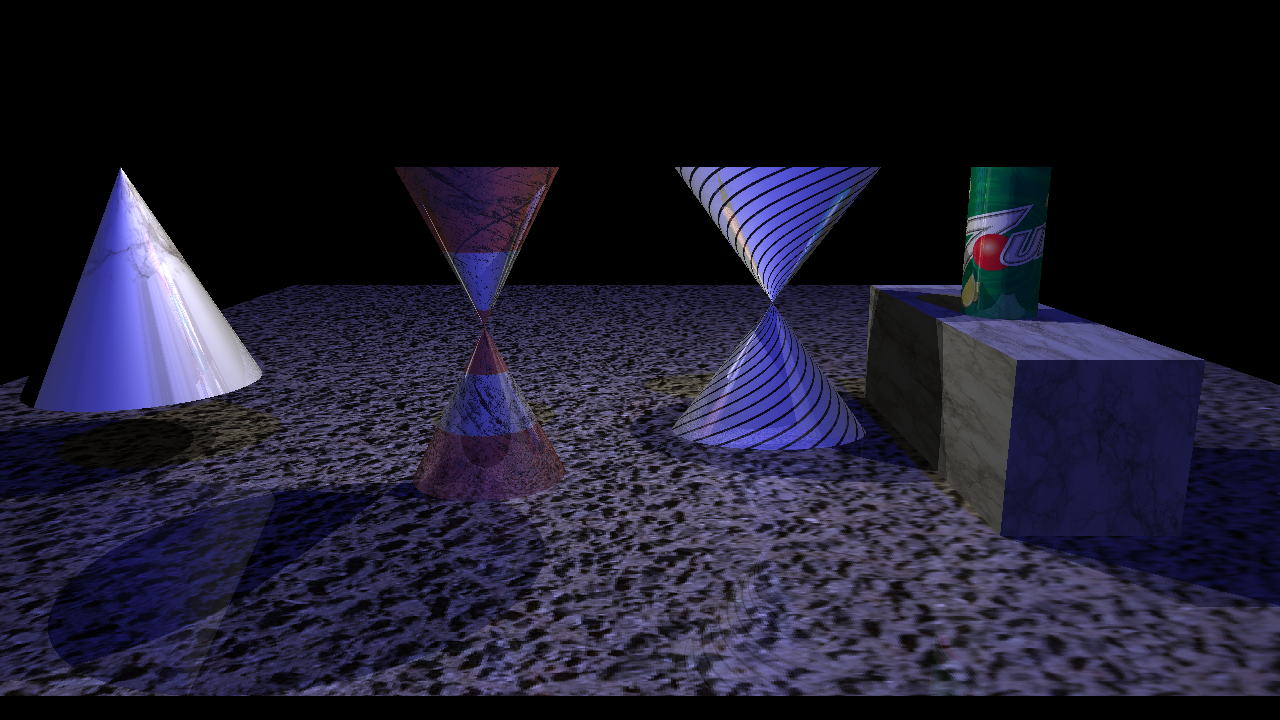
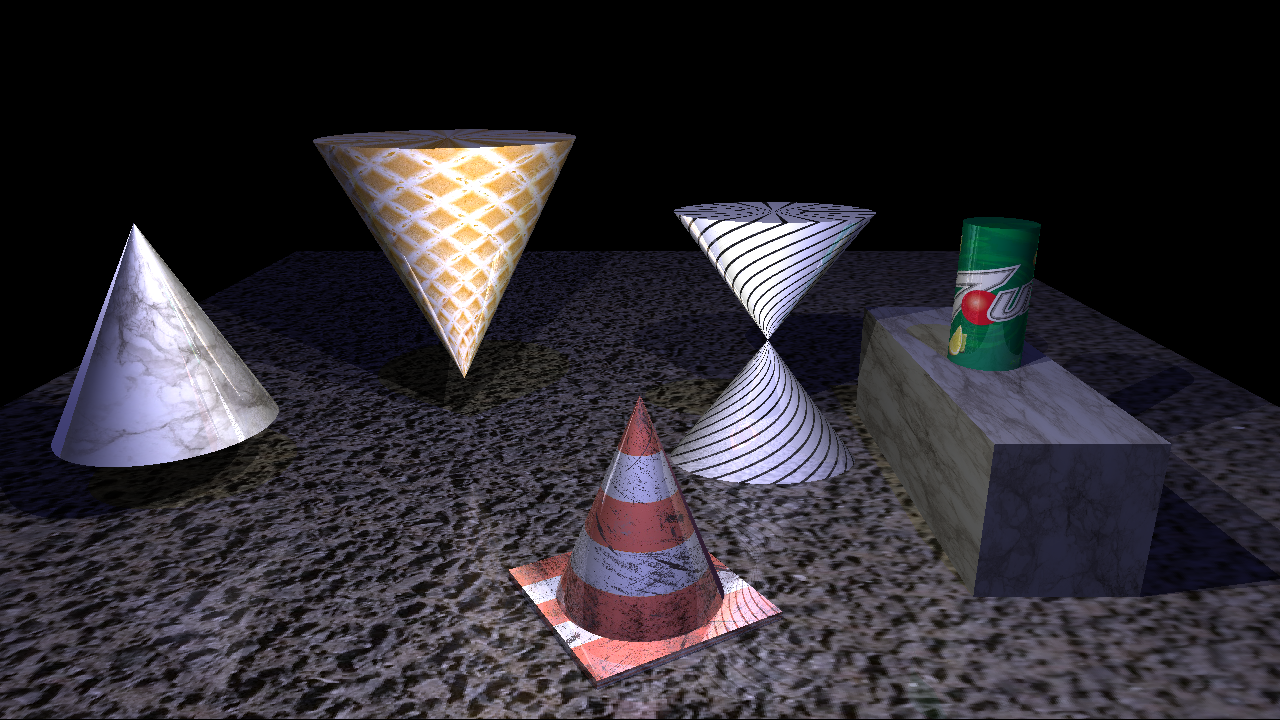
Version 2.0 - fixed bugs in cylinder and cone

diff --git a/src/Cylinder.cpp b/src/Cylinder.cpp
@@ -23,7 +23,8 @@ bool Cylinder::intersectsRay(Ray &r, GLfloat &dist, vec3* point, vec3* normal, O
 	Ray tr = this->invTransform() * r; // Transformed ray
 	GLfloat A, B, C;
 	GLfloat discriminant, disc_root;
-	GLfloat t1 = INFINITY, t2 = INFINITY, t3 = INFINITY, t4 = INFINITY, t = INFINITY;
+	GLfloat t_min, t_max;
+	GLfloat t1 = INFINITY, t2 = INFINITY, t3 = INFINITY, t4 = INFINITY;
 	vec3    ip, ip2; // Intersection points
 
 	bool single_intersection = false;
@@ -43,11 +44,10 @@ bool Cylinder::intersectsRay(Ray &r, GLfloat &dist, vec3* point, vec3* normal, O
 	disc_root = glm::sqrt(discriminant);
 	t1 = (-B + disc_root) / (2*A);
 	t2 = (-B - disc_root) / (2*A);
-
 	if (abs(t1 - t2) < EPSILON) {
 		// same solution
 		single_intersection = true;
-		t = t1;
+		t_min = t1;
 	}
 	else if (t1 > EPSILON && t2 > EPSILON) {
 		// Both positive
@@ -57,10 +57,10 @@ bool Cylinder::intersectsRay(Ray &r, GLfloat &dist, vec3* point, vec3* normal, O
 		// One positive, one negative
 		// or 2 negatives
 		single_intersection = true;
-		t = glm::max(t1, t2);
+		t_min = glm::max(t1, t2);
 	}
 
-	if (t < 0) {
+	if (t_min < 0) {
 		// If dist is a negative values (accounting for floating point errors)
 		// then both solutions were negative. Meaning we have to go back from the origin of
 		// the ray (against its direction) to the intersection point - which means of course that
@@ -70,15 +70,14 @@ bool Cylinder::intersectsRay(Ray &r, GLfloat &dist, vec3* point, vec3* normal, O
 
 	if (single_intersection) {
 
-		ip = tr.origin + t * tr.direction;
+		ip = tr.origin + t_min * tr.direction;
 		if (ip.y > maxCap || ip.y < minCap){
 			return false;
 		}
-
 	}
+
 	else { // 2 intersections
 
-		GLfloat t_min, t_max;
 		t_min = glm::min(t1,t2);
 		t_max = glm::max(t1,t2);
 
@@ -88,7 +87,6 @@ bool Cylinder::intersectsRay(Ray &r, GLfloat &dist, vec3* point, vec3* normal, O
 		if ((ip.y > maxCap && ip2.y > maxCap) || (ip.y < minCap && ip2.y < minCap) ){ // both intersection are on infinite cylinder (behind min or beyond max caps)
 			return false;
 		}
-
 		if ((ip.y < minCap && ip2.y > minCap) || (ip.y > minCap && ip2.y < minCap)) { // min cap intersection
 			t3 = (minCap - tr.origin.y) / tr.direction.y;
 		}
@@ -96,35 +94,24 @@ bool Cylinder::intersectsRay(Ray &r, GLfloat &dist, vec3* point, vec3* normal, O
 		if ((ip.y < maxCap && ip2.z > maxCap) || (ip.y > maxCap && ip2.y < maxCap)) { // max cap intersection
 			t4 = (maxCap - tr.origin.y) / tr.direction.y;
 		}
-		GLfloat old_t_min = t_min;
 		t_min = glm::min(t_min, glm::min(t3,t4));
+
+		/* This is so we can properly display the object at the caps, as the minimum no longer applies here */
 		if (ip.y < minCap) {
 			t_min = t3;
 			minCapIntersection = true;
 		}
-		if (ip.y > maxCap) {
-			t_min = old_t_min;
+		else if (ip.y > maxCap) {
+			t_min = t4;
 			maxCapIntersection = true;
 		}
+		// TODO - fix issue when rendering cylinder parallel to the camera view
 		ip  = tr.origin + t_min * tr.direction;
 	}
 
 
 	// This is the normal at intersection point. (The Cylinder is aligned with the y-axis)
-	vec3 n;
-	if (minCapIntersection) {
-
-		n = vec3 (0, -1, 0);
-
-
-	} else if (maxCapIntersection) {
-
-		n = vec3 (0, 1, 0);
-	}
-	else {
-		n = vec3(ip - vec3(0,ip.y, 0));
-	}
-
+	vec3 n = _normalAt(ip, minCapIntersection, maxCapIntersection);
 	n = normalize(vec3(mat3(this->invTransposeTrans()) * n));
 
 	// M * p - to transform point back
@@ -143,6 +130,7 @@ bool Cylinder::intersectsRay(Ray &r, GLfloat &dist, vec3* point, vec3* normal, O
 		vec2 uv;
 		uv.x = 0.5 + atan2(ip2.x, ip2.z) / (2*PI); // == (atan2(ip2.x, ip2.z) + PI) / (2*PI);
 		uv.y = (ip2.y - minCap) / (maxCap - minCap); // ==  0.5 + ip2.y / (maxCap - minCap) - because maxCap = -minCap;
+
 		texColors->_ambientTexColor  = this->getAmbientTextureColor(uv);
 		texColors->_diffuseTexColor  = this->getDiffuseTextureColor(uv);
 		texColors->_specularTexColor = this->getSpecularTextureColor(uv);
@@ -152,6 +140,17 @@ bool Cylinder::intersectsRay(Ray &r, GLfloat &dist, vec3* point, vec3* normal, O
 	}
 	return true;
 
+}
+
+
+vec3 Cylinder::_normalAt(const vec3& point, bool minCapIntersect, bool maxCapIntersect)
+{
+	if (minCapIntersect)
+		return vec3 (0, -1, 0);
+	else if (maxCapIntersect)
+		return vec3 (0, 1, 0);
+	else
+		return vec3(point - vec3(0,point.y, 0));
 }
 
 

diff --git a/src/Cone.cpp b/src/Cone.cpp
@@ -25,9 +25,7 @@ bool Cone::intersectsRay(Ray &r, GLfloat &dist, vec3* point, vec3* normal, Objec
 	vec3    ip, ip2; // Intersection points
 
 	bool single_intersection = false;
-
-
-
+	bool minCapIntersection = false, maxCapIntersection = false;
 	GLfloat t_min = INFINITY, t_max = INFINITY;
 
 	A = (tr.direction.x*tr.direction.x) + (tr.direction.z*tr.direction.z) - (tr.direction.y*tr.direction.y);
@@ -69,8 +67,6 @@ bool Cone::intersectsRay(Ray &r, GLfloat &dist, vec3* point, vec3* normal, Objec
 		return false;
 	}
 
-
-
 	if (single_intersection) {
 		ip = tr.origin + t_min * tr.direction;
 		if (ip.y > maxCap || ip.y < minCap){
@@ -80,22 +76,15 @@ bool Cone::intersectsRay(Ray &r, GLfloat &dist, vec3* point, vec3* normal, Objec
 	}
 	else { // 2 intersections
 
-//		GLfloat /*t_min, t_max;
 		t_min = glm::min(t1,t2);
 		t_max = glm::max(t1,t2);
 
 		ip  = tr.origin + t_min * tr.direction;
 		ip2 = tr.origin + t_max * tr.direction;
 
-
-
 		if ((ip.y > maxCap && ip2.y > maxCap) || (ip.y < minCap && ip2.y < minCap) ){ // both intersection are on infinite cone (behind min or beyond max caps)
 			return false;
 		}
-
-//		printf("IP  (%f, %f, %f)\n", ip.x, ip.y, ip.z);
-//		printf("IP2 (%f, %f, %f)\n", ip2.x, ip2.y, ip2.z);
-
 		if ((ip.y < minCap && ip2.y > minCap) || (ip.y > minCap && ip2.y < minCap)) { // min cap intersection
 			t3 = (minCap - tr.origin.y) / tr.direction.y;
 		}
@@ -105,14 +94,21 @@ bool Cone::intersectsRay(Ray &r, GLfloat &dist, vec3* point, vec3* normal, Objec
 		}
 
 		t_min = glm::min(t_min, glm::min(t3,t4));
-//		if (ip.y < minCap) {
-//			t_min = t3;
-//		}
+		/* This is so we can properly display the object at the caps, as the minimum no longer applies here */
+		if (ip.y < minCap) {
+			t_min = t3;
+			minCapIntersection = true;
+		}
+		else if (ip.y > maxCap) {
+			t_min = t4;
+			maxCapIntersection = true;
+		}
+		// TODO - fix issue when rendering cylinder parallel to the camera view
 		ip  = tr.origin + t_min * tr.direction;
 	}
 
 	// This is the normal at intersection point. (The Cone is aligned with the y-axis)
-	vec3 n = _normalAt(ip);
+	vec3 n = _normalAt(ip, minCapIntersection, maxCapIntersection);
 	n = normalize(vec3(mat3(this->invTransposeTrans()) * n));
 
 	// M * p - to transform point back
@@ -133,35 +129,6 @@ bool Cone::intersectsRay(Ray &r, GLfloat &dist, vec3* point, vec3* normal, Objec
 		uv.x = 0.5 + atan2(ip2.x, ip2.z) / (2*PI); // == (atan2(ip2.x, ip2.z) + PI) / (2*PI)
 		uv.y = (ip2.y - minCap) / (height);
 
-		if (uv.y < 0 || uv.y > 1 || uv.x < 0 || uv.x > 1) {
-//			printf("--------------------------\n");
-//			printf("IP: %f\n", ip.y);
-//			printf("IP2: %f\n", ip2.y);
-//			printf("(%f, %f)\n", uv.x, uv.y);
-//			printf("t1: %f\n", t1);
-//			printf("t2: %f\n", t2);
-//			printf("t3: %f\n", t3);
-//			printf("t4: %f\n", t4);
-//			printf("tmin: %f\n", t_min);
-//			printf("tmax: %f\n", t_max);
-//			printf("disc: %f\n", discriminant);
-//			printf("--------------------------\n");
-		}
-		if (ip2.y == minCap) {
-//			printf("*******************\n");
-//			printf("IP: %f\n", ip.y);
-//			printf("IP2: %f\n", ip2.y);
-//			printf("(%f, %f)\n", uv.x, uv.y);
-//			printf("t1: %f\n", t1);
-//			printf("t2: %f\n", t2);
-//			printf("t3: %f\n", t3);
-//			printf("t4: %f\n", t4);
-//			printf("tmin: %f\n", t_min);
-//			printf("tmax: %f\n", t_max);
-//			printf("disc: %f\n", discriminant);
-//			printf("*******************\n");
-		}
-
 		texColors->_ambientTexColor  = this->getAmbientTextureColor(uv);
 		texColors->_diffuseTexColor  = this->getDiffuseTextureColor(uv);
 		texColors->_specularTexColor = this->getSpecularTextureColor(uv);
@@ -176,15 +143,20 @@ bool Cone::intersectsRay(Ray &r, GLfloat &dist, vec3* point, vec3* normal, Objec
 
 
 
-vec3 Cone::_normalAt(const vec3& p)
+vec3 Cone::_normalAt(const vec3& p, bool minCapIntersect, bool maxCapIntersect)
 {
-	vec3 n;
-	vec3 v = normalize(vec3(p.x - 0, 0, p.z-0));
-	n.x = v.x * height / radius;
-	n.y = radius / height;
-	n.z = v.z * height / radius;
-
-	return normalize(n);
+	if (minCapIntersect)
+		return vec3(0, -1, 0);
+	else if (maxCapIntersect)
+		return vec3(0, 1, 0);
+	else {
+		vec3 n;
+		vec3 v = normalize(vec3(p.x - 0, 0, p.z-0));
+		n.x = v.x * height / radius;
+		n.y = radius / height;
+		n.z = v.z * height / radius;
+		return normalize(n);
+	}
 }
 
 

diff --git a/src/Mesh.cpp b/src/Mesh.cpp
@@ -122,6 +122,8 @@ vec3 Mesh::__getTextureColor(Image* texture, vec2& uv)
 		return COLOR_WHITE;
 	}
 
+	uv = glm::clamp(uv, 0.f + EPSILON, 1.f - EPSILON); // Textures at the edges tend to be not accurate
+
 	int w = texture->getWidth();
 	int h = texture->getHeight();
 

diff --git a/src/Object.cpp b/src/Object.cpp
@@ -58,6 +58,8 @@ vec3 Object::getTextureColor(Image *texture, vec2& uv)
 		return COLOR_WHITE;
 	}
 
+	uv = glm::clamp(uv, 0.f + EPSILON, 1.f - EPSILON); // Textures at the edges tend to be not accurate
+
 	int w = texture->getWidth();
 	int h = texture->getHeight();
 

diff --git a/src/main.cpp b/src/main.cpp
@@ -18,7 +18,7 @@
 #define FILES_EXTENSION ".rt"
 #define DEFUALT_RESULT_FORMAT ".png"
 
-#define CURRENT_VERSION "1.9"
+#define CURRENT_VERSION "2.0"
 
 #include <boost/filesystem.hpp>
 #include <boost/program_options.hpp>

diff --git a/src/Cylinder.h b/src/Cylinder.h
@@ -24,6 +24,9 @@ private:
 	GLfloat radius;
 
 
+	vec3 _normalAt(const vec3& point, bool minCapIntersect, bool maxCapIntersect);
+
+
 public:
 
 	Cylinder(const glm::vec3 & center, GLfloat& height, GLfloat &radius)

diff --git a/src/Cone.h b/src/Cone.h
@@ -26,7 +26,7 @@ private:
 	GLfloat radius;
 
 
-	vec3 _normalAt(const vec3& point);
+	vec3 _normalAt(const vec3& point, bool minCapIntersect, bool maxCapIntersect);
 
 
 public:

diff --git a/README.md b/README.md
@@ -296,6 +296,11 @@ The result image can be found in "./Rendered_Scenes/ExampleSphere_result.png
 Version History:
 =================
 
+2.0:
+- Fixed bugs with intersection at caps for cone and cylinder that were calculated wrong.
+- Fixed bug with texture for those primitives, also applied at cone.
+- Fixed a bug with edge values of texture (0 or 1) tend not to show properly. 
+
 1.9:
 - Added (Double, possibily infinite) cone with texture support. The cone can be transformed as usual, and caps can be set to determine its size etc.
 - Added Example scene for cone.
